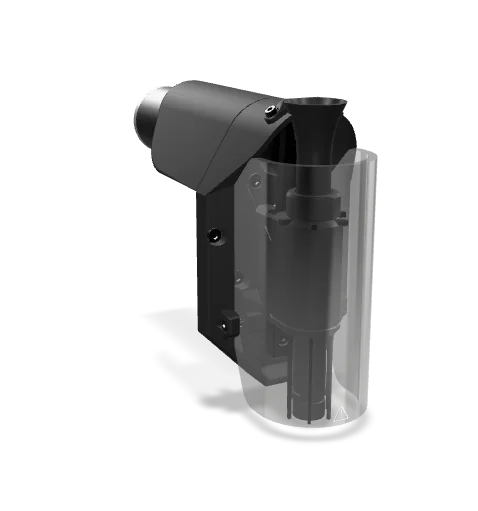
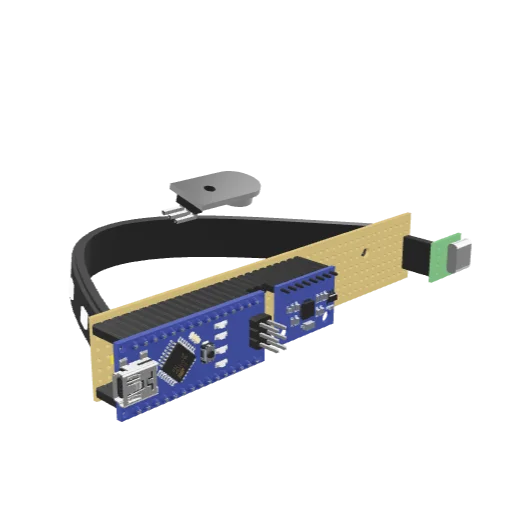
Add files via upload

diff --git a/index.html b/index.html
@@ -1,0 +1,42 @@
+<!doctype html>
+<html lang="en">
+  <head>
+    <title>&lt;model-viewer&gt; template</title>
+    <meta charset="utf-8">
+    <meta name="description" content="&lt;model-viewer&gt; template">
+    <meta name="viewport" content="width=device-width, initial-scale=1">
+    <link type="text/css" href="./styles.css" rel="stylesheet"/>
+  </head>
+  <body>
+    <!-- <model-viewer> HTML element -->
+    <model-viewer src="Internals.glb" ar ar-modes="webxr scene-viewer quick-look" camera-controls tone-mapping="neutral" poster="poster.webp" shadow-intensity="0" exposure="0.72" shadow-softness="0" camera-orbit="765.3deg 71.06deg 25.54m" field-of-view="30deg">
+      <button class="Hotspot" slot="hotspot-1" data-position="4.5749998092651385m 0.8006720063105037m -2.2383427572661967m" data-normal="1m 0m 0m" data-visibility-attribute="visible">
+          <div class="HotspotAnnotation">Arduino Nano</div>
+      </button><button class="Hotspot" slot="hotspot-2" data-position="4.3177971839904785m 1.1974008749907417m -5.7149141915558666m" data-normal="1m 0m 0m" data-visibility-attribute="visible">
+          <div class="HotspotAnnotation">MPU6050 Gyroscope</div>
+      </button><button class="Hotspot" slot="hotspot-3" data-position="4.30000019073486m 0.7923808548392792m -11.555566627920722m" data-normal="1m 0m 0m" data-visibility-attribute="visible">
+          <div class="HotspotAnnotation">USB-C power module</div>
+      </button><button class="Hotspot" slot="hotspot-4" data-position="1.2294627578584425m 3.46505029068486m -6.016897454925116m" data-normal="0.2588171019044222m 0.9659263445702974m 0.00006802102022145411m" data-visibility-attribute="visible">
+          <div class="HotspotAnnotation">Vibrating actuator</div>
+      </button><button class="Hotspot" slot="hotspot-5" data-position="1.0791799369143398m -0.01499822422691155m -5.176288221607904m" data-normal="-0.9425916736355295m 0.049419985808066794m -0.33027049791905705m" data-visibility-attribute="visible">
+          <div class="HotspotAnnotation">Vibrating actuator</div>
+      </button><button class="Hotspot" slot="hotspot-6" data-position="1.2252674116233422m 1.4368461987268202m -1.0431513334962146m" data-normal="-0.38445388295705285m 0.06772480609283905m 0.9206565931545444m" data-visibility-attribute="visible">
+          <div class="HotspotAnnotation">RGB-LED strip</div>
+      </button><button class="Hotspot" slot="hotspot-7" data-position="3.053199669889718m 0.3146199776930907m -11.119014804849312m" data-normal="0m 0.38270817479064667m -0.9238692834748927m" data-visibility-attribute="visible">
+          <div class="HotspotAnnotation">Prototype Board</div>
+      </button>
+      <div class="progress-bar hide" slot="progress-bar">
+          <div class="update-bar"></div>
+      </div>
+      <button slot="ar-button" id="ar-button">
+          View in your space
+      </button>
+      <div id="ar-prompt">
+          <img src="ar_hand_prompt.png">
+      </div>
+    </model-viewer>  
+    <script src="script.js"></script>
+    <!-- Loads <model-viewer> for browsers: -->
+    <script type="module" src="https://ajax.googleapis.com/ajax/libs/model-viewer/4.3.1/model-viewer.min.js"></script>
+  </body>
+</html>